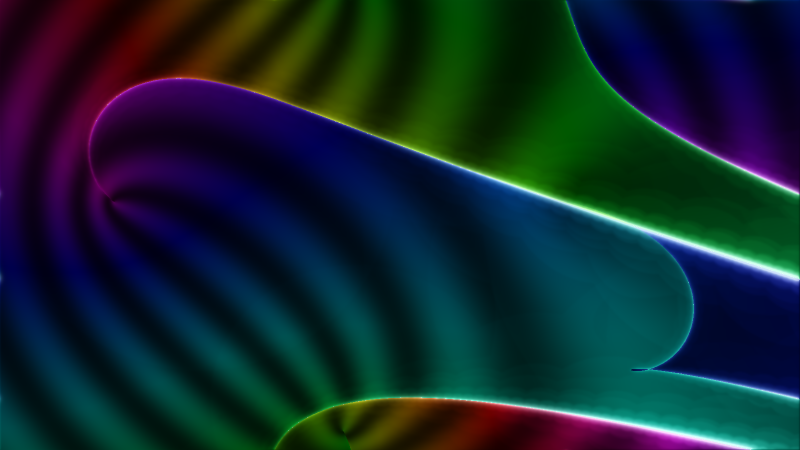
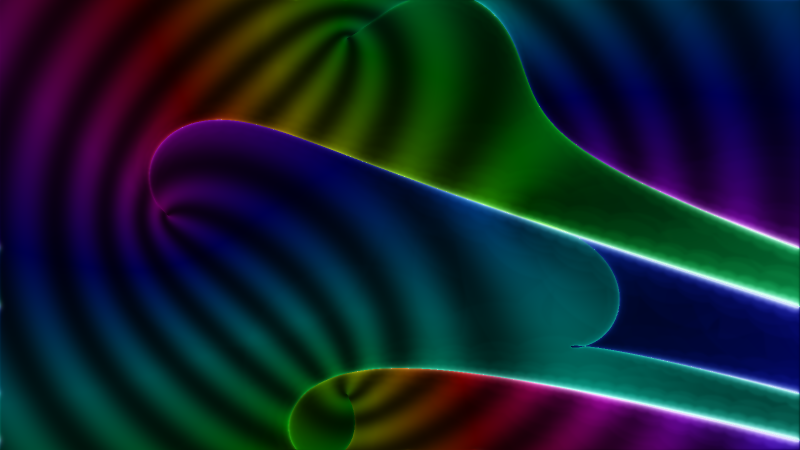
docs(showpieces): basins — full branch-point ring in frame + annotated maps
Reframe both windows so the family's whole branch-point ring is inside the
picture (d=9: |c|=8 incl. ±8i, previously cropped; d=5: |c|=4 incl. ±4i).
Each degree now renders twice from one computation: the full-bleed frame and
an annotated map with labeled Re(c)/Im(c) axes, every arc center c=-(d-1)ζ
marked on its dotted ring (axis points as ±R/±Ri, diagonals in exact polar
form).  Four PNGs total; refresh manifest updated.

diff --git a/python/docs/source/showpieces/homotopy_basins/homotopy_basins.py b/python/docs/source/showpieces/homotopy_basins/homotopy_basins.py
@@ -32,10 +32,14 @@ The geometry is the gamma trick, photographed.  The family's branch points form 
 c = -(d-1) * zeta with zeta^(d-1) = 1; each grows one glowing arc, and every arc trails off to
 infinity in the -gamma direction (rotating gamma literally re-aims the comet tails).
 
-Two frames are produced:
+Four frames are produced (each window contains the family's whole branch-point ring; each
+degree is rendered twice from one computation, full-bleed and as an annotated map with labeled
+Re(c)/Im(c) axes and every arc center c = -(d-1) zeta marked on its ring):
 
-    * homotopy_basins_teaching.png -- d = 5: four branch points, four arcs, the lesson legible.
-    * homotopy_basins.png          -- d = 9: the eight-arc comet cluster, the show-off.
+    * homotopy_basins_teaching.png / homotopy_basins_teaching_annotated.png
+                                    -- d = 5: four branch points, four arcs, the lesson legible.
+    * homotopy_basins.png / homotopy_basins_annotated.png
+                                    -- d = 9: the eight-arc comet cluster, the show-off.
 
 Every coefficient fed to the function tree is EXACT (fractions.Fraction; pixel coordinates are
 snapped to rationals), per the library's coercion doctrine.  There is no randomness anywhere --
@@ -172,13 +176,12 @@ def _downsample(img, factor):
         .reshape(h // factor, factor, w // factor, factor, -1).mean(axis=(1, 3))
 
 
-def render(finger, steps, fails, out_png):
-    """Map the tracked channels to color: hue from the phase of the start-end correlation s, brightness from
-    tracker effort, stripes from |s|, speckle from failures."""
+def _shade(finger, steps, fails):
+    """Map the tracked channels to an RGB image: hue from the phase of the start-end
+    correlation s, brightness from tracker effort, stripes from |s|, speckle from failures."""
     import matplotlib
     matplotlib.use('Agg')
     import matplotlib.colors as mcolors
-    import matplotlib.image as mimage
 
     w = steps.shape[1]
     hue = (np.angle(finger) / (2 * np.pi)) % 1.0
@@ -202,37 +205,105 @@ def render(finger, steps, fails, out_png):
     img = 1 - (1 - rgb) * (1 - np.clip(1.3 * glow, 0, 1))
     img = np.clip(img + (fails > 0)[..., None] * 0.55, 0, 1)     # failure speckle, white-hot
 
-    img = _downsample(img, _SS)
-    mimage.imsave(out_png, np.clip(img, 0, 1), origin='lower')
+    return np.clip(_downsample(img, _SS), 0, 1)
+
+
+def render(finger, steps, fails, out_png):
+    """The full-bleed frame: just the shaded image, no chrome."""
+    import matplotlib.image as mimage
+    mimage.imsave(out_png, _shade(finger, steps, fails), origin='lower')
+    print('  wrote', out_png)
+
+
+def render_annotated(finger, steps, fails, degree, extent, out_png):
+    """The same tracked data as a *map*: labeled Re(c)/Im(c) axes, and every arc center --
+    the family's branch points c = -(d-1) zeta, zeta^(d-1) = 1 -- marked on the ring."""
+    import matplotlib
+    matplotlib.use('Agg')
+    import matplotlib.pyplot as plt
+
+    img = _shade(finger, steps, fails)
+    bg = '#05060a'
+    plt.rcParams.update({'figure.facecolor': bg, 'axes.facecolor': bg})
+    fig, ax = plt.subplots(figsize=(12, 7.4))
+    ax.imshow(img, origin='lower', extent=extent, interpolation='bilinear')
+
+    radius = degree - 1
+    branch = -radius * np.exp(2j * np.pi * np.arange(degree - 1) / (degree - 1))
+    ax.scatter(branch.real, branch.imag, s=130, facecolors='none',
+               edgecolors='white', linewidths=1.6, zorder=5)
+    for b in branch:
+        if abs(b.imag) < 1e-9:                              # on the real axis: -8 or 8
+            label = f'${round(b.real)}$'
+        elif abs(b.real) < 1e-9:                            # on the imaginary axis: -8i or 8i
+            label = f'${round(b.imag)}i$'.replace('1i', 'i')
+        else:                                               # diagonal: exact polar form
+            label = f'${radius}e^{{{np.angle(b) / np.pi:+.2g}\\pi i}}$'
+        ax.annotate(label, (b.real, b.imag), textcoords='offset points', xytext=(9, 9),
+                    color='white', fontsize=9)
+    theta = np.linspace(0, 2 * np.pi, 400)
+    ax.plot((degree - 1) * np.cos(theta), (degree - 1) * np.sin(theta),
+            color='white', lw=0.6, ls=':', alpha=0.45,
+            label=f'branch-point ring  $|c| = {degree - 1}$')
+
+    ax.set_xlabel(r'$\operatorname{Re}\, c$', color='#c9d3e0')
+    ax.set_ylabel(r'$\operatorname{Im}\, c$', color='#c9d3e0')
+    ax.tick_params(colors='#8896aa')
+    for spine in ax.spines.values():
+        spine.set_color('#223')
+    ax.set_title(f'arc centers: the branch points  $c = -{degree - 1}\\zeta$,  '
+                 f'$\\zeta^{{{degree - 1}}} = 1$   (each arc trails toward $-\\gamma\\infty$)',
+                 color='#e8eef7', fontsize=11)
+    leg = ax.legend(loc='lower right', framealpha=0.15, labelcolor='#c9d3e0', fontsize=9)
+    leg.get_frame().set_edgecolor('#223')
+    fig.savefig(out_png, dpi=110, facecolor=bg, bbox_inches='tight')
+    plt.close(fig)
     print('  wrote', out_png)
 
 
 # --- the two frames ------------------------------------------------------------------------------
 
-def teaching_frame(out):
-    """d = 5: four branch points (c = -4 zeta, zeta^4 = 1), four arcs -- the lesson legible."""
+def _extent(center, halfwidth, w, h):
+    """The imshow extent [x0, x1, y0, y1] matching compute()'s pixel grid."""
+    halfheight = halfwidth * h / w
+    return [center[0] - halfwidth, center[0] + halfwidth,
+            center[1] - halfheight, center[1] + halfheight]
+
+
+def teaching_frame(out, out_annotated):
+    """d = 5: four branch points (c = -4 zeta, zeta^4 = 1), four arcs -- the lesson legible.
+    The window contains the whole branch-point ring |c| = 4; the same tracked data is rendered
+    full-bleed and as an annotated map with the four arc centers marked."""
     print('teaching frame (d=5):')
+    center, halfwidth = (1.2, -0.2), 9.0
+    w, h = 800 * _SS, 450 * _SS
     finger, steps, fails = compute(degree=5,
                                    gamma=(Fraction(-24, 25), Fraction(7, 25)),
-                                   center=(1.0, -0.4), halfwidth=7.0,
-                                   w=800 * _SS, h=450 * _SS)
+                                   center=center, halfwidth=halfwidth, w=w, h=h)
     render(finger, steps, fails, out)
+    render_annotated(finger, steps, fails, 5, _extent(center, halfwidth, w, h), out_annotated)
 
 
-def showpiece_frame(out):
-    """d = 9: the eight-arc comet cluster streaming in the -gamma direction -- the show-off."""
+def showpiece_frame(out, out_annotated):
+    """d = 9: the eight-arc comet cluster streaming in the -gamma direction -- the show-off.
+    The window contains the whole branch-point ring |c| = 8; the same tracked data is rendered
+    twice, full-bleed and as an annotated map with the eight arc centers marked."""
     print('showpiece frame (d=9):')
+    center, halfwidth = (2.5, -0.3), 16.4
+    w, h = 1200 * _SS, 675 * _SS
     finger, steps, fails = compute(degree=9,
                                    gamma=(Fraction(-24, 25), Fraction(7, 25)),
-                                   center=(2.0, -0.8), halfwidth=12.5,
-                                   w=1200 * _SS, h=675 * _SS)
+                                   center=center, halfwidth=halfwidth, w=w, h=h)
     render(finger, steps, fails, out)
+    render_annotated(finger, steps, fails, 9, _extent(center, halfwidth, w, h), out_annotated)
 
 
 def main():
-    """Generate both frames next to this script."""
-    teaching_frame(os.path.join(_OUT, 'homotopy_basins_teaching.png'))
-    showpiece_frame(os.path.join(_OUT, 'homotopy_basins.png'))
+    """Generate all four frames next to this script."""
+    teaching_frame(os.path.join(_OUT, 'homotopy_basins_teaching.png'),
+                   os.path.join(_OUT, 'homotopy_basins_teaching_annotated.png'))
+    showpiece_frame(os.path.join(_OUT, 'homotopy_basins.png'),
+                    os.path.join(_OUT, 'homotopy_basins_annotated.png'))
 
 
 if __name__ == '__main__':

diff --git a/tools/refresh_doc_artifacts.py b/tools/refresh_doc_artifacts.py
@@ -122,7 +122,8 @@ def _plots():
              note="showpiece: raster PNG only; tight-tolerance mult-35 solve -> slow (~1 min)"),
         Plot("homotopy_basins",
              SHOWPIECES / "homotopy_basins" / "homotopy_basins.py",
-             ["homotopy_basins.png", "homotopy_basins_teaching.png"],
+             ["homotopy_basins.png", "homotopy_basins_annotated.png",
+              "homotopy_basins_teaching.png", "homotopy_basins_teaching_annotated.png"],
              note="showpiece: raster PNG only; ~17M tracked paths -> SLOW (~10-15 min on 12 cores)"),
     ]
 

diff --git a/python/docs/source/showpieces/homotopy_basins/index.rst b/python/docs/source/showpieces/homotopy_basins/index.rst
@@ -44,6 +44,13 @@ through *system space*, and that line grazes the discriminant along one arc per 
    \qquad \mu = \frac{\gamma\,t}{1-t} \in \gamma\cdot(0,\infty),\quad \zeta^8 = 1,
 
 each arc leaving its branch point and trailing to infinity in the :math:`-\gamma` direction.
+Here is the same tracked data as a *map* — coordinates on, all eight arc centers marked:
+
+.. image:: homotopy_basins_annotated.png
+   :width: 100%
+   :align: center
+   :alt: the degree-9 render with labeled Re(c)/Im(c) axes, the eight branch points marked on
+         the dotted ring |c| = 8
 That is the **gamma trick** made visible: the arcs are precisely the *bad* target systems for
 this choice of :math:`\gamma`, a measure-zero set that a different :math:`\gamma` re-aims
 elsewhere — rotate :math:`\gamma` and the whole comet cluster swings around the ring.  For a
@@ -65,7 +72,14 @@ points at :math:`c = -4\zeta,\ \zeta^4=1`, one glowing arc each, five basins:
 
 Crossing an arc means the straight-line homotopy passed the discriminant on one side rather than
 the other, so the destinations of exactly two of the tracked paths trade places — the start–end correlation,
-and with it the hue, jumps by the transposition's kick :math:`(\zeta^j-\zeta^k)(x_j-x_k)`.  Walking a small loop *around* an arc's
+and with it the hue, jumps by the transposition's kick :math:`(\zeta^j-\zeta^k)(x_j-x_k)`.
+With coordinates on, the four arc centers sit at :math:`c = \pm 4,\ \pm 4i`:
+
+.. image:: homotopy_basins_teaching_annotated.png
+   :width: 92%
+   :align: center
+   :alt: the degree-5 render with labeled Re(c)/Im(c) axes and the four branch points marked on
+         the dotted ring |c| = 4  Walking a small loop *around* an arc's
 endpoint (the branch point itself) is precisely the monodromy loop of
 :doc:`the Monodromy Loom </showpieces/monodromy_loom/index>` — the two showpieces are the same
 mathematics seen from parameter space and from solution space.
